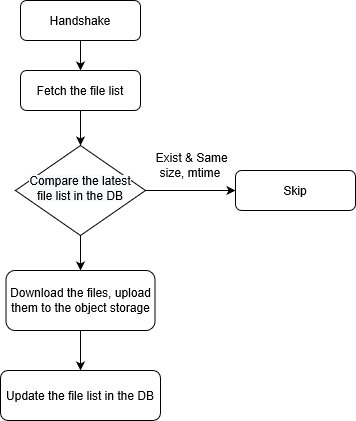
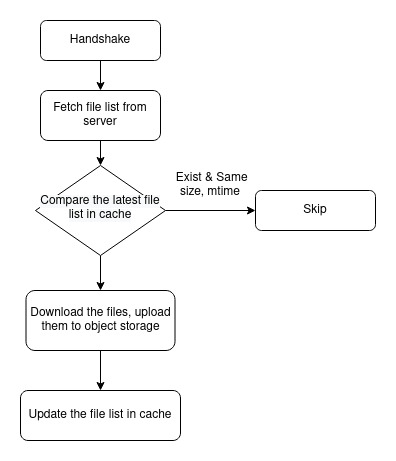
Updated README

diff --git a/README.md b/README.md
@@ -1,5 +1,5 @@
 # RSYNC-OS
-## A rsync-compatible tool for object storage.
+## A rsync-compatible tool for object storage
 
 ![client](https://raw.githubusercontent.com/kaiakz/rsync-os/master/docs/client.jpg)
 
@@ -16,10 +16,18 @@
 - [x] Send argument list
 - [x] Fetch the file list
 - [x] Request & download files
+- [x] File List Caching
+- [ ] CLI
 
-## Detail
+## Detailed Information
+#### What's the difference between rsync and rsync-os
+rsync-os is express edition of rsync. It uses a subset of rsync wire protocol(without block checksum)
+
+#### rsync-os and rclone are completely different
+rclone does not support rsync wire protocol although it is called "rsync for object storage". With rclone you can't transfer files between rsync and object storage with rclone.
+
 #### Why we don't need block checksum?
-Rsync requires random reading and writing of files to do the block exchange. But object storage does not support that.
+rsync requires random reading and writing of files to do the block exchange. But object storage does not support that.
 rsync-os simplifies the rsync algorithm to avoid random reading and writing. When a file needs to be updated, we just download the entire file from the server and then replace it.
 
 #### HandShake
